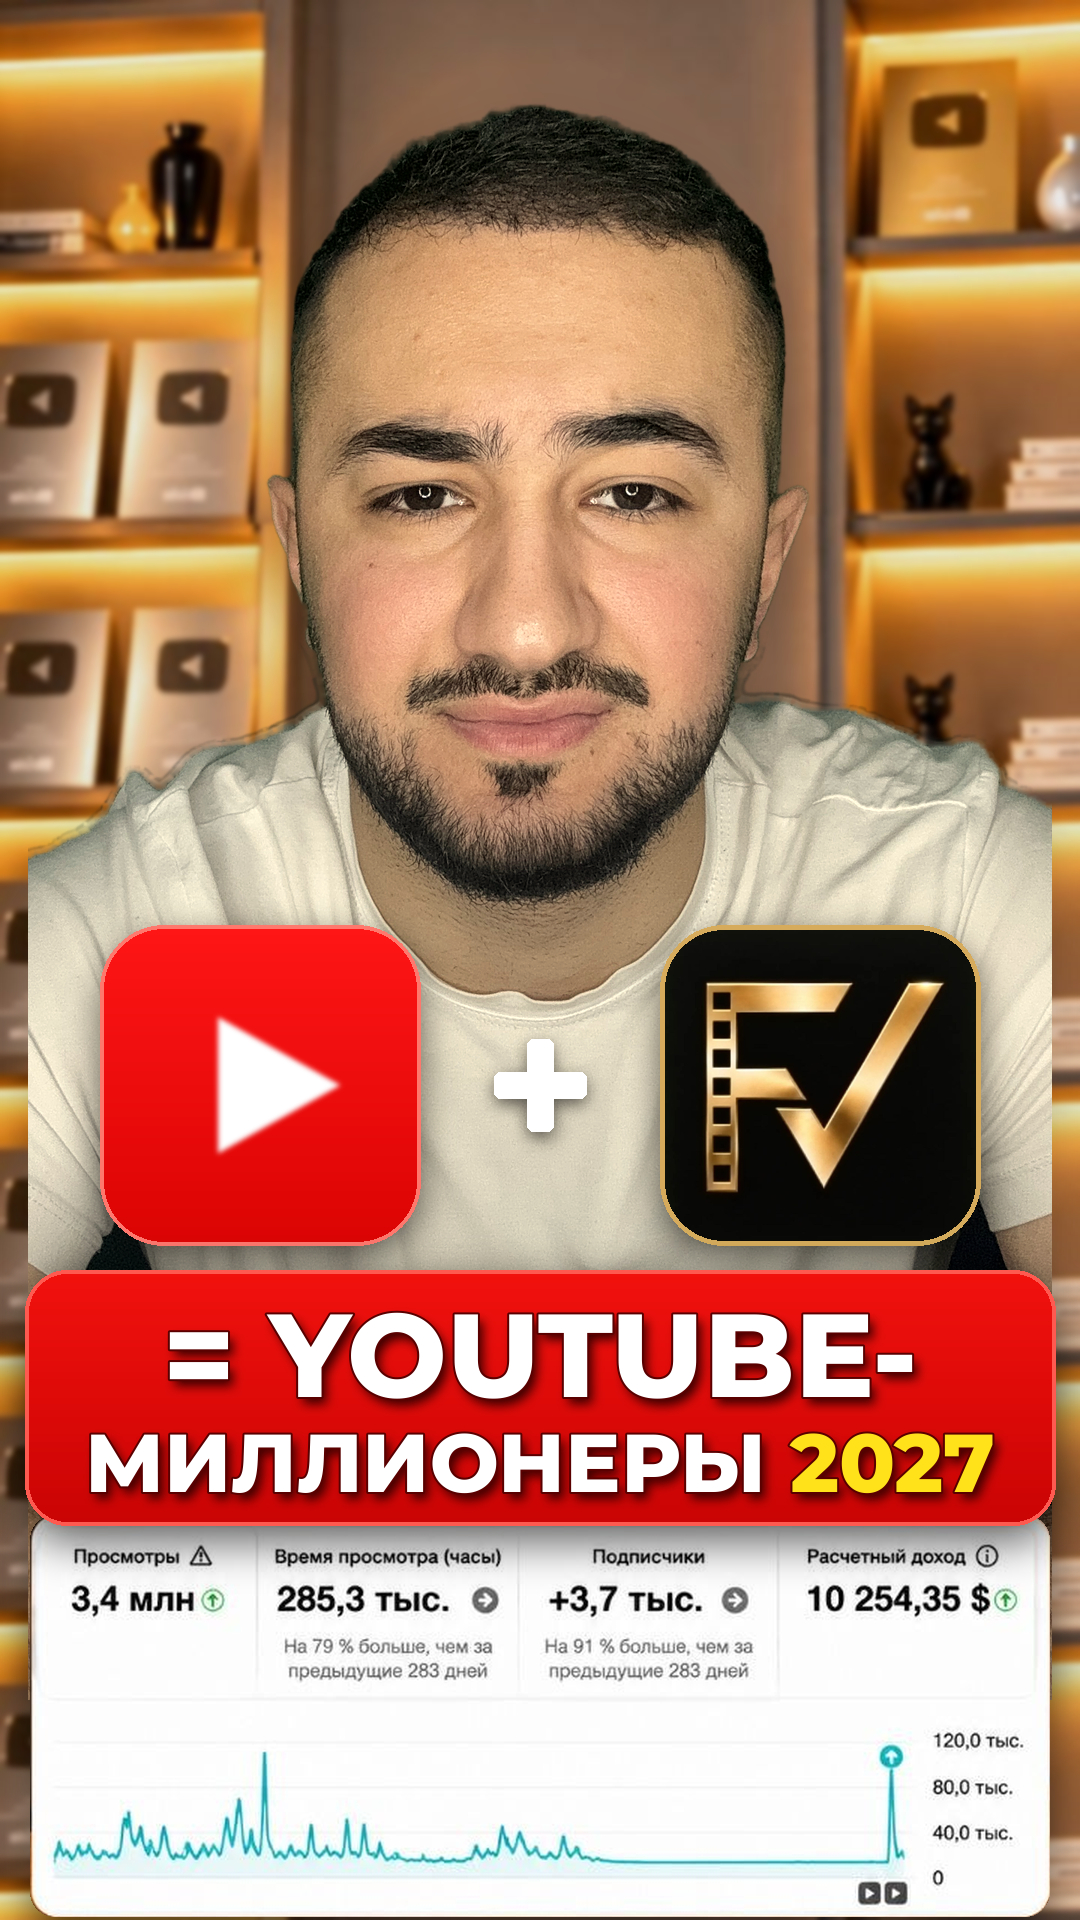
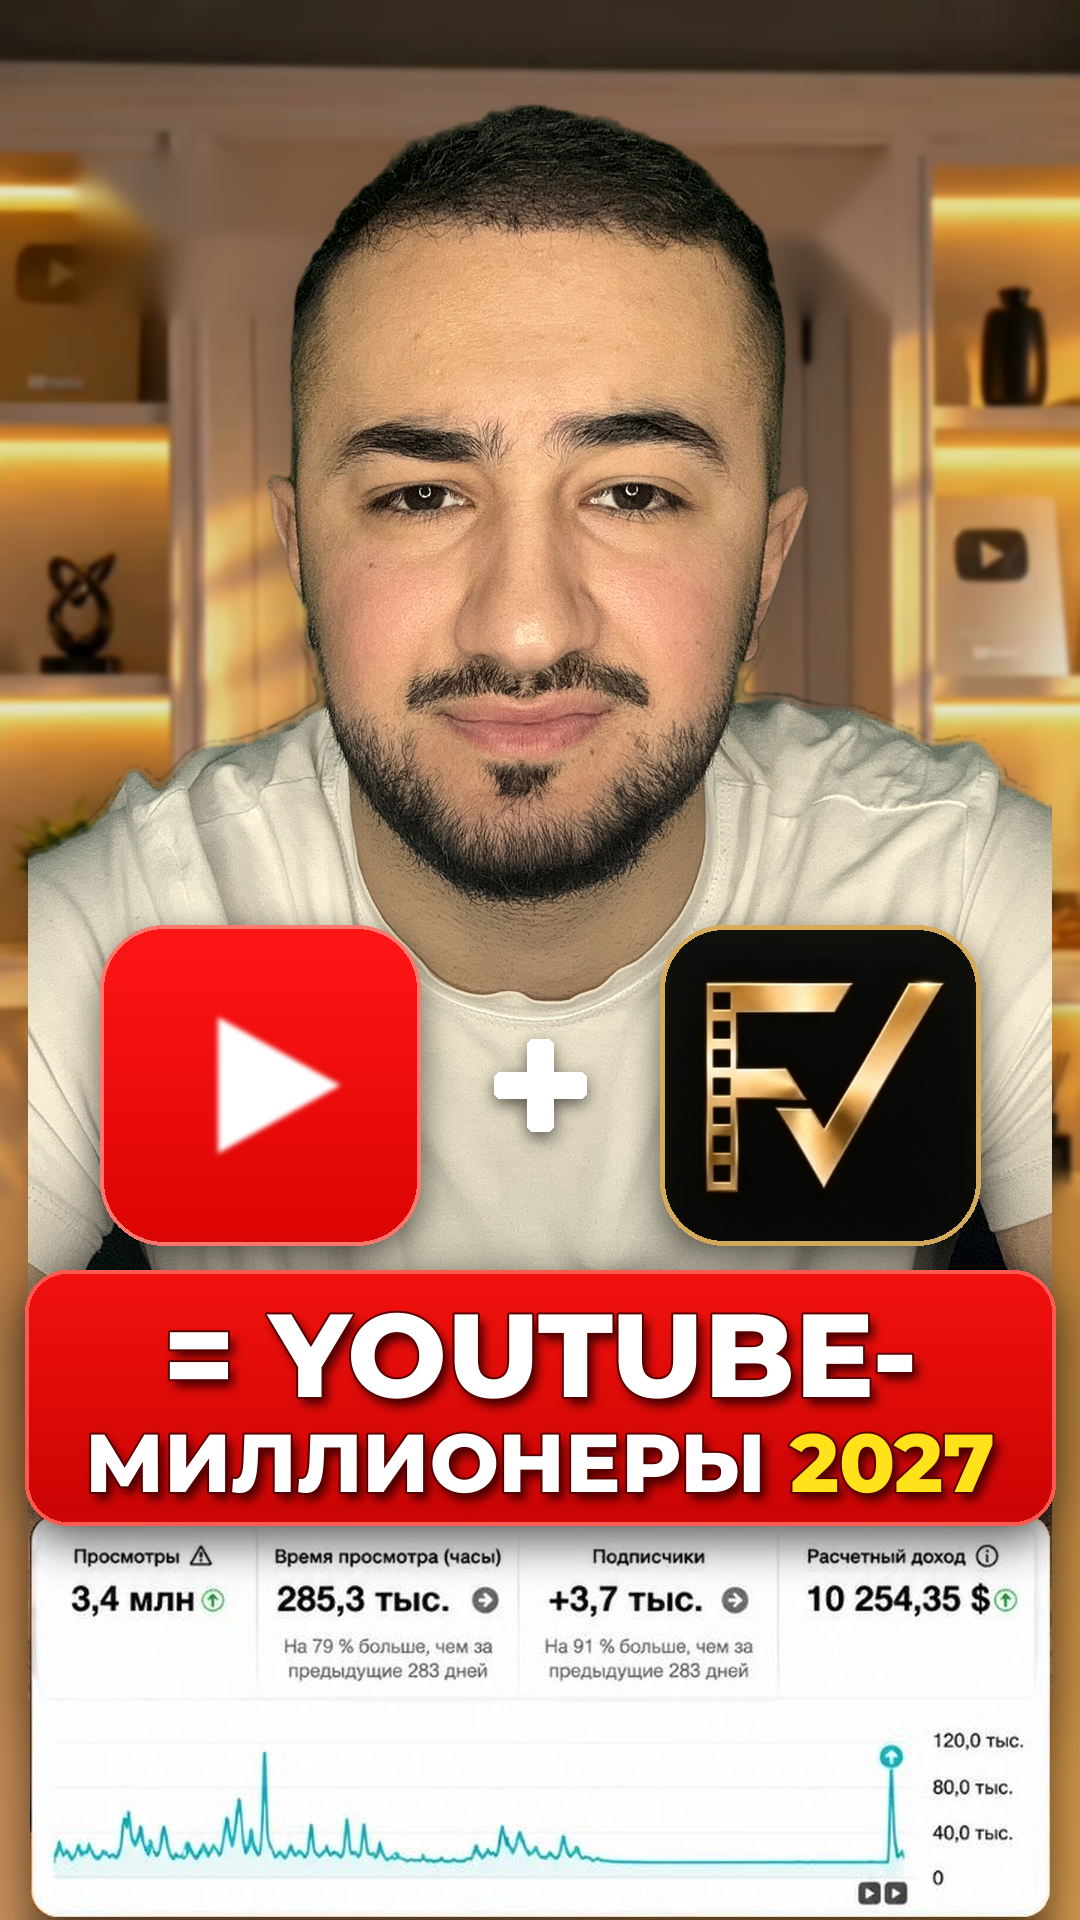
Обложки 03 и 04: новый фон студии без повторов полок
Claude-Session: https://claude.ai/code/session_017hf3L4YGHDVPqsx2nE8ns4

Changed region(s): [[0.0, 0.0, 1.0, 1.0], [0.6722, 0.3438, 0.7028, 0.375]]

diff --git a/scripts/cover_04.py b/scripts/cover_04.py
@@ -9,7 +9,7 @@ D = os.path.join(os.path.dirname(__file__), '..', 'обложки_2026-11-27')
 person_p, out = sys.argv[1], sys.argv[2]
 Hp, dx, dy, y0 = (int(v) for v in sys.argv[3:7])
 
-c = Image.open(f'{D}/слои/фон_студия.png').convert('RGB').filter(ImageFilter.GaussianBlur(2.2))
+c = Image.open(os.environ.get('COVER_BG', f'{D}/слои/фон_студия.png')).convert('RGB').filter(ImageFilter.GaussianBlur(2.2))
 c = ImageEnhance.Brightness(c).enhance(0.92).convert('RGBA')
 p = Image.open(person_p).convert('RGBA')
 p = p.resize((round(p.width * Hp / p.height), Hp), Image.LANCZOS)

diff --git a/scripts/cover_03.py b/scripts/cover_03.py
@@ -11,7 +11,7 @@ Hp = int(sys.argv[3]) if len(sys.argv) > 3 else 1636
 dx = int(sys.argv[4]) if len(sys.argv) > 4 else 0
 dy = int(sys.argv[5]) if len(sys.argv) > 5 else 0
 
-c = Image.open(f'{D}/слои/фон_студия.png').convert('RGB').filter(ImageFilter.GaussianBlur(2.2))
+c = Image.open(os.environ.get('COVER_BG', f'{D}/слои/фон_студия.png')).convert('RGB').filter(ImageFilter.GaussianBlur(2.2))
 c = ImageEnhance.Brightness(c).enhance(0.92).convert('RGBA')
 
 # человек: тёплая коррекция под свет студии
